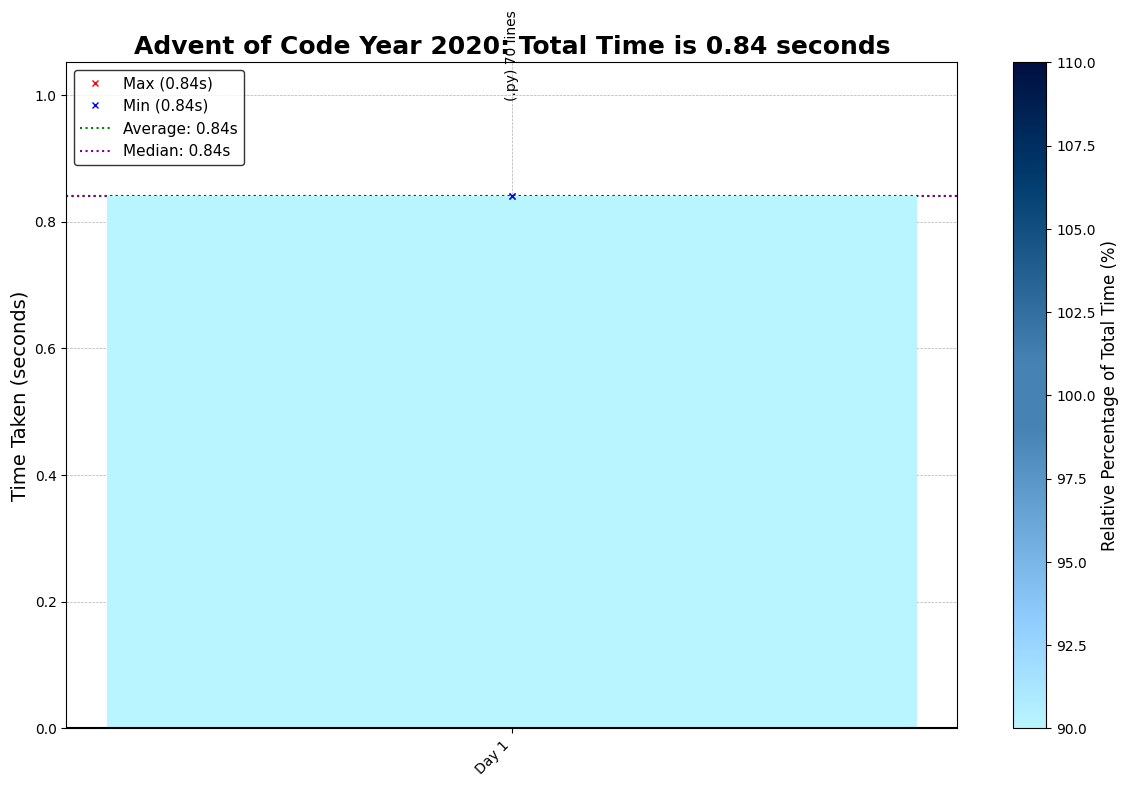
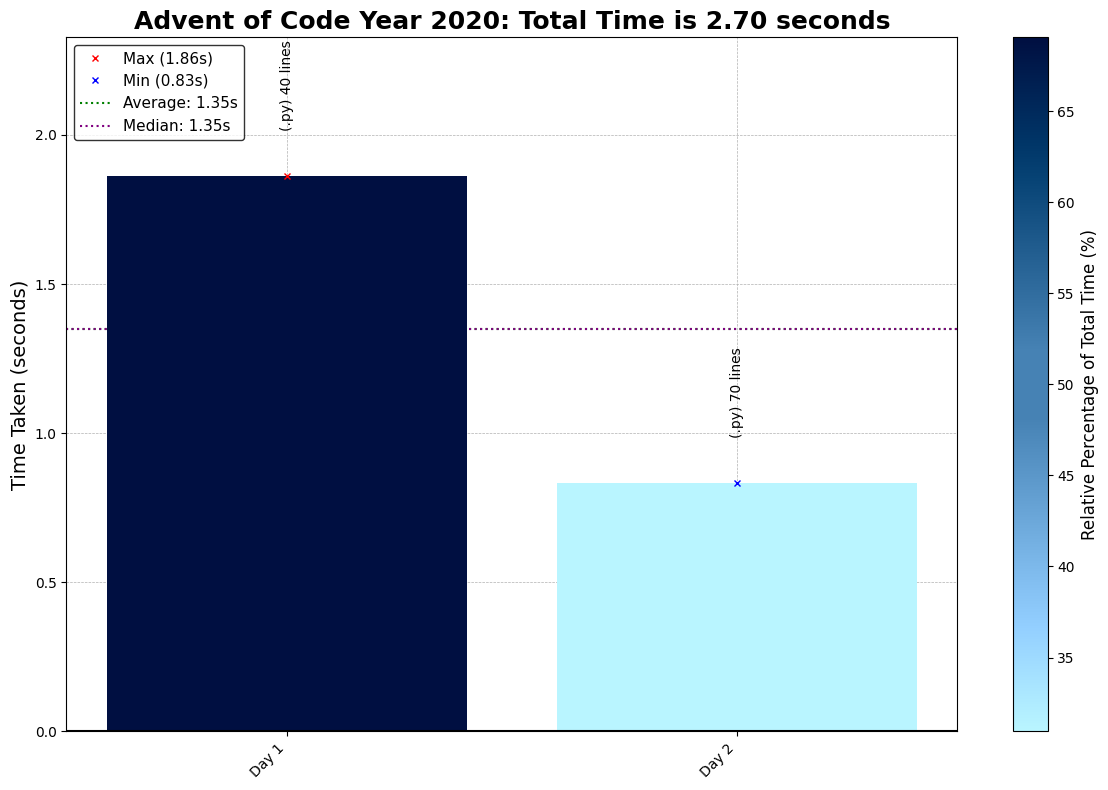
2020 Day 01,02 & 03

diff --git a/2020/02/2020Day02.py b/2020/02/2020Day02.py
@@ -1,0 +1,70 @@
+# Advent of Code - Day 2, Year 2020
+# Solution Started: Nov 19, 2024
+# Puzzle Link: https://adventofcode.com/2020/day/2
+# Solution by: [abbasmoosajee07]
+# Brief: [Valid Passwords]
+
+#!/usr/bin/env python3
+
+import os, re, copy
+import numpy as np
+import pandas as pd
+import matplotlib.pyplot as plt
+from collections import Counter
+# Load the input data from the specified file path
+D02_file = "Day02_input.txt"
+D02_file_path = os.path.join(os.path.dirname(os.path.abspath(__file__)), D02_file)
+
+# Read and sort input data into a grid
+with open(D02_file_path) as file:
+    input_data = file.read().strip().split('\n')
+
+def password_criteria(input_list):
+    criteria_list = []
+    # Process each password condition entry in the list
+    for criteria in input_list:
+        condition, password = criteria.split(': ')
+        range, letter = condition.split(' ')
+        n1, n2 = range.split('-')
+        criteria_n = [int(n1), int(n2), letter, list(password)]
+        criteria_list.append(criteria_n)
+    return criteria_list
+
+def count_valid_passwords(criteria_list):
+    count = 0
+    for possible_password in criteria_list:
+        min, max = possible_password[0], possible_password[1]
+        key_letter = possible_password[2]
+        password = possible_password[3]
+
+        str_count = dict(Counter(password))
+        if key_letter in str_count:
+            key_count = str_count[key_letter]
+            if min <= key_count <= max:
+                count += 1
+    return count
+
+input_criteria = password_criteria(input_data)
+ans_p1 = count_valid_passwords(input_criteria)
+print(f"Part 1: {ans_p1}")
+
+def count_tca_passwords(criteria_list):
+    count = 0
+    for possible_password in criteria_list:
+        pos_1, pos_2 = possible_password[0], possible_password[1]
+        key_letter = possible_password[2]
+        password = possible_password[3]
+        
+        if key_letter in password:
+            # pos - 1 to correct for zero index
+            if password[pos_1 - 1] == key_letter:
+                if password[pos_2 - 1] != key_letter: # make sure not present in both
+                    count += 1
+            # pos - 1 to correct for zero index
+            elif password[pos_2 - 1] == key_letter:
+                count += 1
+
+    return count
+
+ans_p2 = count_tca_passwords(input_criteria)
+print(f"Part 2: {ans_p2}")

diff --git a/2020/03/2020Day03.py b/2020/03/2020Day03.py
@@ -1,0 +1,70 @@
+# Advent of Code - Day 3, Year 2020
+# Solution Started: Nov 19, 2024
+# Puzzle Link: https://adventofcode.com/2020/day/3
+# Solution by: [abbasmoosajee07]
+# Brief: [Code/Problem Description]
+
+#!/usr/bin/env python3
+
+import os, re, copy
+import numpy as np
+import pandas as pd
+import matplotlib.pyplot as plt
+from collections import deque
+
+# Load the input data from the specified file path
+D03_file = "Day03_input.txt"
+D03_file_path = os.path.join(os.path.dirname(os.path.abspath(__file__)), D03_file)
+
+# Read and sort input data into a grid
+with open(D03_file_path) as file:
+    input_data = file.read().strip().split('\n')
+
+def create_full_map(initial_map, copy):
+    full_map = []
+    for row in initial_map:
+        new_row = list(row) * copy
+        full_map.append(new_row)
+    return np.array(full_map)
+
+def count_trees(grid, start, right, down):
+    rows, cols = len(grid), len(grid[0])  # Dimensions of the grid
+    x, y = start  # Start from the initial position
+    tree_count = 0
+    
+    while x < rows:  # Stop if we reach the last row
+        # Check if the current position contains a tree
+        if grid[x][y % cols] == '#':  # Handle horizontal wrapping
+            tree_count += 1
+        
+        # Move according to the specified right/down steps
+        x += down
+        y += right  # Wrap horizontally by using y % cols
+
+    return tree_count
+
+
+# Create a replicated map and run the function
+replicated_map = create_full_map(input_data, len(input_data))
+
+# Starting position
+start_pos = (0, 0)
+
+# Right 3, Down 1 (the movement pattern for Day 3, Part 1)
+ans_p1 = count_trees(replicated_map, start_pos, 3, 1)
+
+print(f"Part 1: {ans_p1}")
+
+# Right 1, down 1.
+trees_r1d1 = count_trees(replicated_map, start_pos, 1, 1)
+# Right 3, down 1.
+trees_r3d1 = count_trees(replicated_map, start_pos, 3, 1)
+# Right 5, down 1.
+trees_r5d1 = count_trees(replicated_map, start_pos, 5, 1)
+# Right 7, down 1.
+trees_r7d1 = count_trees(replicated_map, start_pos, 7, 1)
+# Right 1, down 2.
+trees_r1d2 = count_trees(replicated_map, start_pos, 1, 2)
+
+ans_p2 = trees_r1d1 * trees_r3d1 * trees_r5d1 * trees_r7d1 * trees_r1d2
+print(f"Part 2: {ans_p2}")

diff --git a/2020/01/2020Day01.py b/2020/01/2020Day01.py
@@ -2,7 +2,7 @@
 # Solution Started: Nov 19, 2024
 # Puzzle Link: https://adventofcode.com/2020/day/1
 # Solution by: [abbasmoosajee07]
-# Brief: [Code/Problem Description]
+# Brief: [Add Numbers]
 
 #!/usr/bin/env python3
 

diff --git a/TemplateCode.py b/TemplateCode.py
@@ -7,7 +7,7 @@
 import os, sys, time
 
 # Default values for the arguments
-DEFAULT_DAY = 1
+DEFAULT_DAY = 3
 DEFAULT_YEAR = 2020
 DEFAULT_YEAR_SOLVE = 2024
 DEFAULT_AUTHOR = 'abbasmoosajee07'

diff --git a/2020/README_2020.md b/2020/README_2020.md
@@ -1,7 +1,7 @@
 # Advent of Code 2020 - Coding Challenge Summaries
 
 This repository contains coding solutions for the 2020 Advent of Code, with problems emphasizing recursion, state management, and efficient data structures.
-
+![2020 RunTime](2020_RunTime_plot.png)
 ## Day-by-Day Coding Overview
 
 1. **Day 1 - Report Repair**: Use two-pointer or hashing techniques to find entries summing to a target value.
